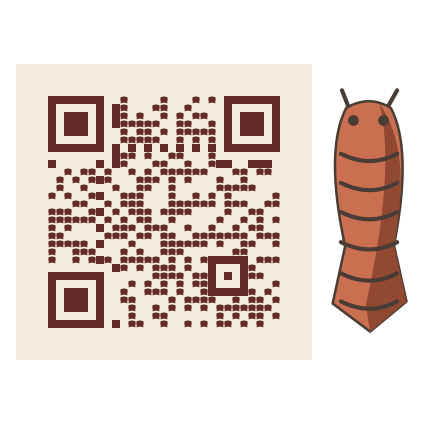
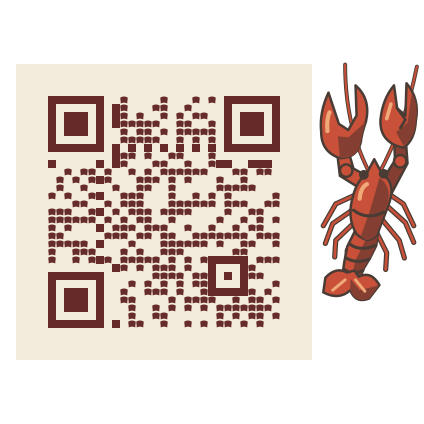
Redraw lobster-shell with whole lobster silhouette

Changed region(s): [[0.7358, 0.1533, 1.0, 0.7972]]

diff --git a/src/core/film.ts b/src/core/film.ts
@@ -92,7 +92,43 @@ export function filmScene(id: string, size: number, recipe: Recipe, extent: Film
     case 'oom-bars': art=side(R(3,195,18,39,gold,1)+R(27,149,18,85,red,1)+R(51,90,18,144,blue,1)+R(75,12,18,222,green,1)+P('M87 12H93V234H87ZM63 90H69V234H63ZM39 149H45V234H39ZM15 195H21V234H15Z',shade,'none')+L('M2 237H97',edge,4));break;
     case 'feathers': art=side(P('M35 232L43 136Q7 110 16 70Q12 39 44 19Q68 8 81 31L90 40L72 54Q90 116 59 142L52 236Z',green)+P('M44 71Q85 63 72 123L59 142L52 236L43 207L50 137Q27 113 44 71Z','#526747','none')+P('M76 28Q99 26 96 52L80 46L73 54Z',gold)+C(65,31,4,edge)+P('M40 100Q43 71 61 79L66 122Z',blue)+L('M26 153H76',shade,8)+L('M40 138V153M53 139V153',edge,4));break;
     case 'grass': art=side(P('M15 233Q17 134 4 63Q36 79 38 168Q35 69 52 6Q70 70 57 173Q71 84 96 57Q93 164 83 233Z',green)+P('M52 6Q70 70 57 173Q71 84 96 57Q78 198 61 233H42Z','#556846','none')+L('M51 221L52 47M27 220L19 105M66 220L83 105',cream,2));break;
-    case 'lobster-shell': art=side(P('M34 26L25 3M65 26L78 3','none',edge,4)+P('M29 20Q51 7 72 20Q93 60 75 152L87 206L52 235L16 208L28 153Q8 61 29 20Z',red)+P('M61 16Q93 60 75 152L87 206L52 235L48 209Q77 79 61 16Z','#914932','none')+[64,92,120,149,179,206].map(y=>L(`M24 ${y}Q52 ${y+14} 78 ${y}`,edge,4)).join('')+C(36,32,4,edge)+C(65,32,4,edge));break;
+    case 'lobster-shell': {
+      const shell = '#c95039', darkShell = '#843f32', gleam = '#efaa78';
+      // Three-quarter lobster: oversized unequal pincers lead the silhouette,
+      // with bent arms and walking legs separate from the tapering, fanned tail.
+      const legs = [
+        'M43 132L19 143L7 164', 'M42 144L16 162L9 181',
+        'M42 156L19 178L18 194', 'M44 166L30 188L31 204',
+        'M65 130L84 143L94 164', 'M65 142L86 161L94 180',
+        'M61 155L80 178L85 195', 'M56 166L68 190L67 206',
+      ].map(d=>L(d,edge,5)+L(d,shell,2.6)).join('');
+      const antennae = L('M53 116Q28 70 28 9M60 115Q86 67 97 11',edge,3.8)+
+        L('M53 116Q28 70 28 9M60 115Q86 67 97 11',shell,2);
+      const arms = P('M47 131L23 116L20 91L30 88L36 109L54 119Z',shell)+
+        P('M62 123L76 101L75 80L86 77L88 104L71 136Z',darkShell)+
+        C(29,111,6,shell)+C(81,102,6,shell);
+      const claws =
+        // Open crusher: the deep negative-space V reads as a pincer at small sizes.
+        P('M23 99Q5 93 5 74Q3 55 12 36L22 66L31 72L39 58L38 29Q53 42 48 64Q44 75 43 84Q39 99 23 99Z',shell)+
+        P('M23 99Q40 100 43 84Q45 72 48 64L31 79L21 78Z',darkShell,'none')+
+        L('M11 73Q10 62 13 55',gleam,4)+
+        // Smaller cutter, nearly closed; its long seam remains clearly visible.
+        P('M77 87Q61 80 62 62Q64 42 75 29L78 51L86 58L87 27Q100 42 96 63Q95 82 84 89Z',shell)+
+        P('M84 87Q96 78 96 63Q99 47 92 37L88 65L77 74Z',darkShell,'none')+
+        L('M78 51L86 62L81 70',edge,2.6)+L('M68 61L72 47',gleam,3.5);
+      const body = P('M48 115L56 100L64 115Q78 123 69 146L59 172Q51 183 39 172Q29 156 36 134Q40 120 48 115Z',shell)+
+        P('M61 118Q76 128 66 151L58 173Q49 182 43 174L52 149Z',darkShell,'none')+
+        L('M42 138Q43 127 49 124',gleam,4)+L('M36 149Q49 159 65 151',edge,3)+
+        C(46,115,3.5,edge)+C(65,114,3.5,edge);
+      const tail = P('M39 166Q50 176 60 167L58 183L52 195L46 205L41 217L25 215L27 200L30 184Z',shell)+
+        P('M49 175L60 167L58 183L52 195L46 205L41 217L34 215L38 197Z',darkShell,'none')+
+        L('M33 182Q43 189 57 183M29 195Q39 201 51 196M27 206Q35 212 45 207',edge,3)+
+        P('M30 209Q19 203 9 214L7 228Q22 236 33 226Q38 239 51 234L61 221Q53 207 41 213L37 207Z',shell)+
+        P('M33 215L33 226Q38 239 51 234L61 221L42 226Z',darkShell,'none')+
+        L('M28 216L16 226M38 216L47 227',gleam,2.8);
+      art=place(antennae+legs+arms+tail+body+claws, size-13.5, extent.top-7, 13, plate+6, 100, 240);
+      break;
+    }
     case 'mask': art=top(P('M57 6Q98 -4 142 7L137 54Q126 88 100 97Q69 85 61 56Z',cream)+P('M109 3L142 7L137 54Q126 88 100 97Q121 48 109 3Z','#c4a588','none')+P('M70 33Q81 24 91 34L88 42L72 41ZM111 34Q124 24 133 34L130 41L113 42Z',edge)+L('M100 39L93 58H105M79 70Q101 86 122 67',shade,3)+G(R(0,0,47,75,cream,1)+[8,20,32].map(x=>R(x,0,7,44,edge,0)).join(''),'translate(5 18) rotate(-9)'));break;
     case 'gills': art=top(P('M51 54Q55 20 101 19Q145 20 150 54Q143 87 101 88Q59 88 51 54Z','#e5a6a3')+P('M58 60Q104 83 146 52Q145 93 99 91Q70 86 58 60Z','#bd747d','none')+L('M52 36L24 9M52 50L11 46M54 65L25 88M148 36L176 9M148 50L189 46M146 65L175 88','#b05d70',9)+[0,1].map(i=>G(L('M23 7L21 21M31 15L39 6M12 44L20 57M27 46L33 32M25 87L25 71M36 76L47 84','#d28998',5),i?'translate(200 0) scale(-1 1)':'')).join('')+C(79,50,4,edge)+C(123,50,4,edge)+L('M90 65Q101 73 114 63',edge,3));break;
     case 'honeycomb': art=top(P('M12 22L38 8L66 23V56L39 73L12 58ZM66 23L94 7L123 23V56L95 73L66 56ZM123 23L151 8L180 23V56L152 73L123 56Z',gold)+P('M39 25L52 32V49L39 58L25 49V32ZM95 25L109 32V49L95 58L81 49V32ZM151 25L166 32V49L151 58L138 49V32Z',shade)+P('M38 73Q43 78 39 96Q29 90 38 73',gold));break;
